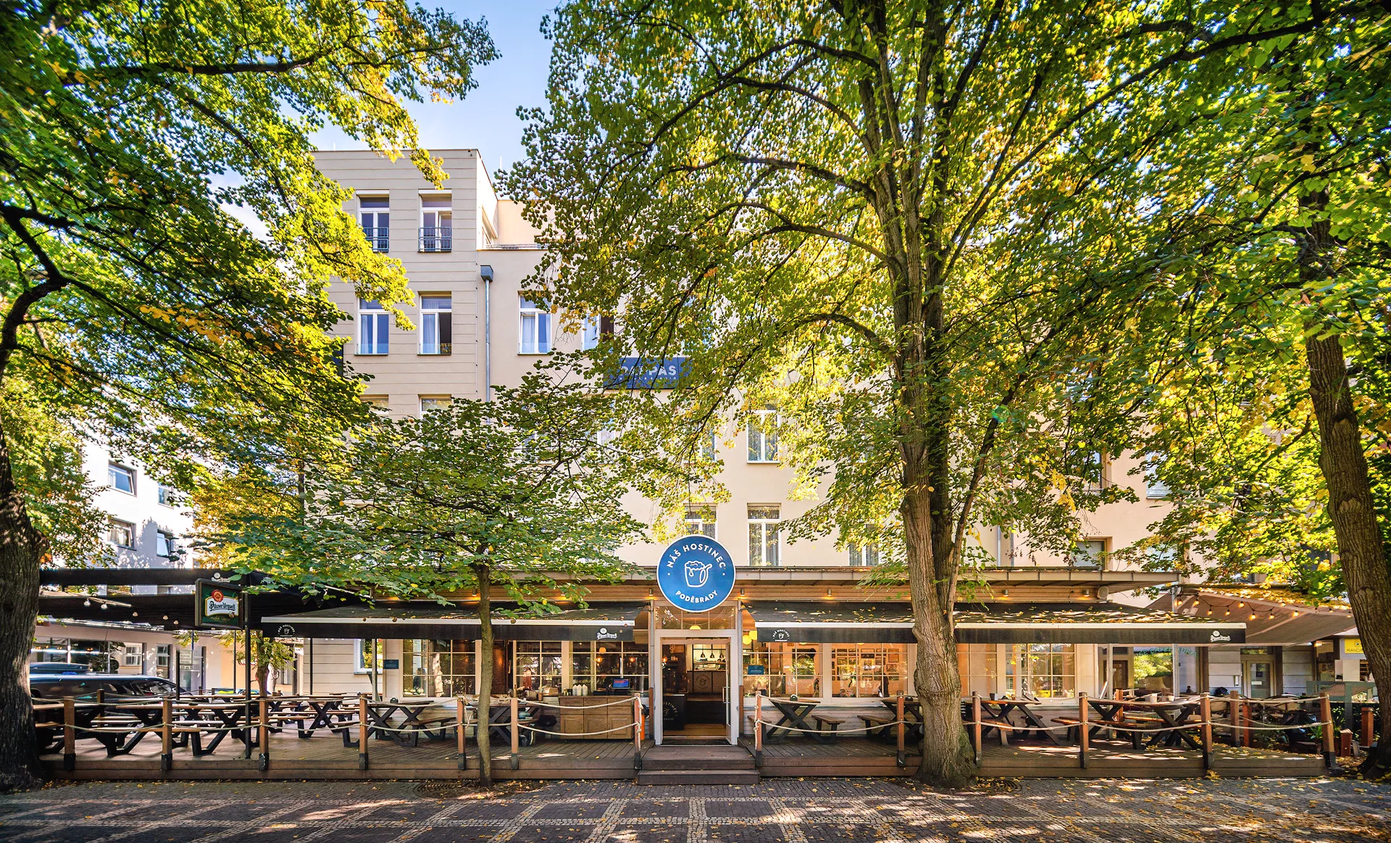
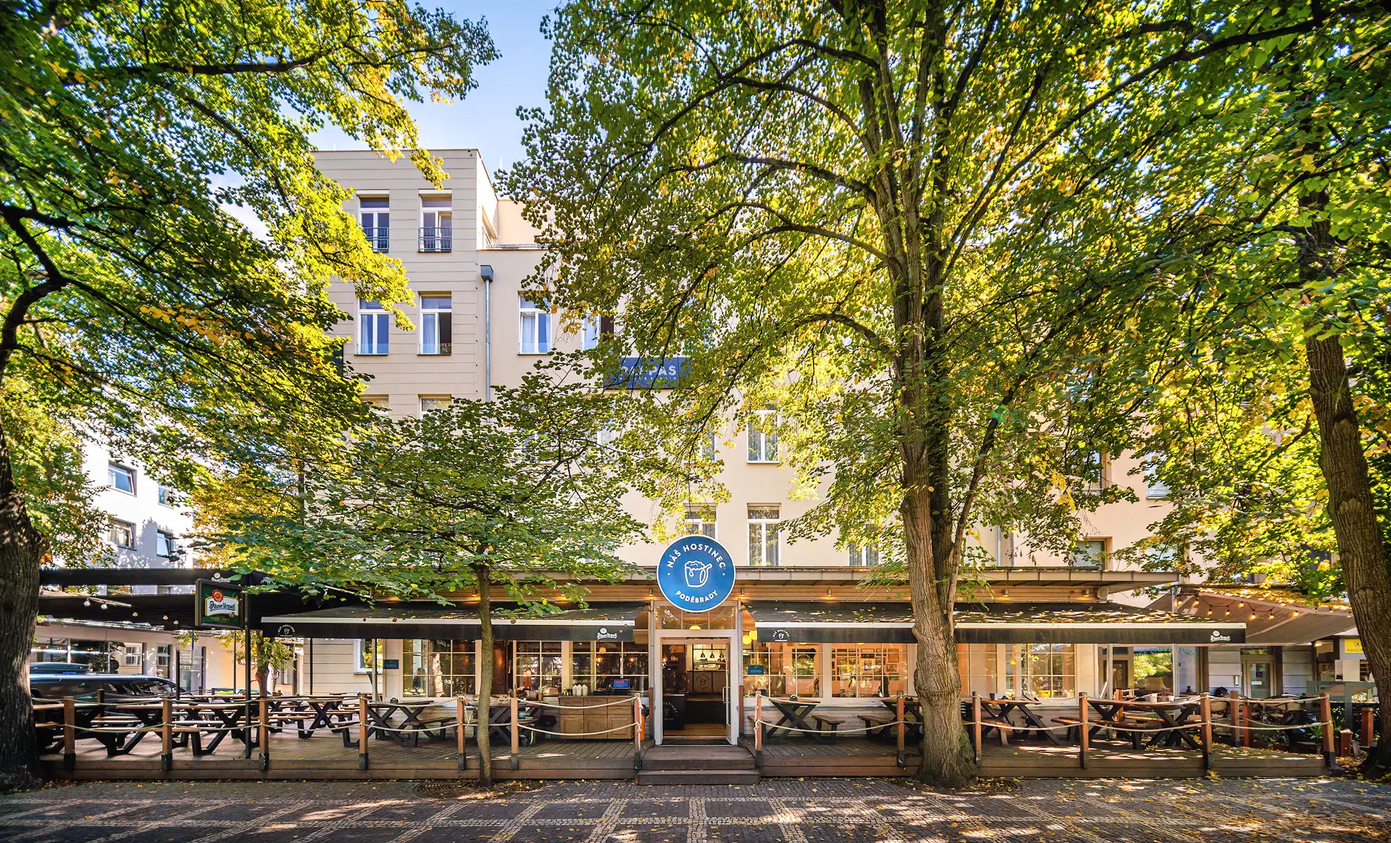
release 5

diff --git a/docs/styles/style.min.css b/docs/styles/style.min.css
@@ -1,1 +1,1 @@
-@import"https://fonts.googleapis.com/css2?family=Inter+Tight:ital,wght@0,100..900;1,100..900&display=swap";@import"https://cdn.jsdelivr.net/npm/bootstrap-icons@1.11.3/font/bootstrap-icons.min.css";body{background-color:#e8e8e8 !important}body .image,body .thumbnail{position:relative;width:100%;padding-top:66.6666666%}body .image img,body .thumbnail img{position:absolute;top:0;left:0;width:100%;height:100%;object-fit:cover}body .image:after,body .thumbnail:after{content:"";position:absolute;top:10px;left:10px;width:100px;height:100px;background-image:url("/media/logo/TR_logo_Asset 4.svg");background-size:contain;background-repeat:no-repeat;opacity:.4;pointer-events:none;z-index:10}body .navbar{background-color:#e8e8e8 !important}body .nav-item{text-align:center}body .content{margin:20px auto;max-width:80vw}body .section{padding-top:3rem}body .text,body a,body b,body i,body p,body h1,body h2,body h3,body h4,body h5,body h6,body label,body input,body ::placeholder{font-family:"Inter Tight",sans-serif;font-optical-sizing:auto;color:#4d4d4d}body .hr-blue{width:100%;display:block;margin-top:10px;margin-bottom:10px;height:5px;border-bottom:solid #0062a6 1px}body .text:not(:last-child){margin-bottom:1rem}body .text.no-bp{margin-bottom:0rem}body .fs66{font-size:2.64vw}body .fs36{font-size:1.44vw}body .fs20{font-size:.96vw}body .fs15{font-size:.6vw}body .fsp0{letter-spacing:0px}body input::placeholder,body textarea::placeholder{font-size:.8vw;font-style:italic;color:#0062a6}body .fw900{font-weight:900}body .fw600{font-weight:600}body .fw500{font-weight:500}body .fw400{font-weight:400}body .fw300{font-weight:300}body .fw200{font-weight:200}body .fw100{font-weight:100}body .blue{color:#0062a6}body .blue-bg{background-color:#0062a6}body .white{color:#e8e8e8}body .white-bg{background-color:#e8e8e8}body .black{color:#4d4d4d}body .flex{display:flex;width:100%}body .flex .align-top{justify-content:flex-start}body .flex .align-bottom{justify-content:flex-end}body .flex .drow{flex-direction:row}body .c100,body .c33,body .c40,body .c20,body .c60,body .c50,body .c25{overflow-wrap:break-word;display:flex;flex-direction:column;padding:20px;justify-content:left}body .c100{width:100%}body .c50{width:50%}body .c33{width:100%}body .c40{width:40%}body .c20{width:20%}body .c25{width:25%}body .c60{width:60%}body .c100{width:100%}body .jc-c{justify-content:center;text-align:center}body .jc-l{justify-content:start;text-align:left}body .jc-r{justify-content:end;text-align:right}body nav .container-fluid{padding-left:3%;padding-right:3%}body nav .logo{max-height:50px;height:50px}body .tab{display:flex;flex-direction:column;width:100%}body .tab .tab-row{display:flex;flex-direction:row;width:100%}body .tab .tab-row.narrow{display:flex;flex-direction:row !important;width:100%}body .tab .tab-row.narrow .c50{width:50%;padding:0px}body .tab .tab-row:first-child{margin-top:3rem}body .tab .tab-row:not(.borderless){padding:2rem 0px;border-top:solid #bababa 1px}body .tab .tab-row.borderless{padding:.1rem 0px}body .contact-form input:not(.form-check-input),body .contact-form textarea{width:100%;min-height:3rem;border-top:none;border-left:none;border-right:none;border-bottom:solid #0062a6 1px;border-radius:0px;line-height:1.5rem;background-color:rgba(0,0,0,0)}body .main-button{background-color:rgba(0,0,0,0);color:#0062a6;display:inline-block;padding:5px 20px;border:2px solid #0062a6;height:fit-content;border-radius:50px;text-align:center;text-decoration:none;cursor:pointer}body .main-button .bi{margin-left:.5rem;color:#0062a6}body .m0 a,body .m0 b,body .m0 p,body .m0 i{margin:0px}body .np{padding:0px}body .btn-container{padding-top:2rem;width:100%;display:flex;justify-content:end}body .btn-container.center{width:100%;display:flex;justify-content:center}body .project-grid{display:flex;flex-direction:row;flex-wrap:wrap;width:100%}body .project-grid .preview{position:relative;display:block;width:50%}body .project-grid .preview .image{overflow:hidden;position:relative;top:0%}body .project-grid .preview img{max-width:100%;aspect-ratio:6/4;object-fit:fill}body .project-grid .preview .label{width:100%;position:absolute;bottom:0;background-color:rgba(50,50,50,.5);padding:.5rem;display:flex;justify-items:start}body .project-grid .preview .label .year{color:#fff;padding-right:1rem}body .project-grid .preview .label .text{color:#fff}body a.inherit{text-decoration:none}body .avatar img{max-width:100%;border-radius:5px}body .image-rectangles{position:relative;display:inline-block;max-height:32vw;height:32vw;overflow:hidden}body .image-rectangles .r1,body .image-rectangles .r2,body .image-rectangles .r3,body .image-rectangles .r4{background-color:#e8e8e8;position:absolute}body .image-rectangles img{display:block;width:100%;height:auto;position:relative;bottom:25%}body .image-rectangles .r1{top:0;right:0;width:24vw;height:8vw}body .image-rectangles .r2{top:8vw;right:0;width:8vw;height:8vw}body .image-rectangles .r3{top:16vw;right:8vw;width:8vw;height:8vw}body .image-rectangles .r4{top:24vw;right:0;width:8vw;height:8vw}body .image-rectangles .headline{position:absolute;font-size:3.3vw;color:#fff;top:75%;left:0;right:0;transform:translateY(-50%);overflow:hidden;white-space:nowrap;padding:1rem 5vw}body .image-rectangles .headline::before{content:"";position:absolute;top:0;left:0;width:100%;height:100%;background-color:rgba(255,255,255,.1);transform:translateX(-100%);animation:slide-in 1s forwards}body .image-rectangles .headline .text{color:#fff;text-shadow:2px 2px 10px #000}@keyframes slide-in{from{transform:translateX(-100%)}to{transform:translateX(0)}}body .gallery{display:flex;flex-wrap:wrap;justify-content:center;justify-items:center}body .gallery a{width:50%}body .gallery .thumbnail{width:100%;position:relative;top:0;overflow:hidden}body .gallery .thumbnail img{aspect-ratio:6/4;object-fit:cover}body .gallery .header{padding-top:2rem;padding-bottom:2rem;width:100%;display:flex;justify-content:center;font-size:2.64vw;font-weight:600;color:#0062a6}body .gallery .thumbnail img{width:100%;height:100%;object-fit:cover}body #footbar{display:flex;flex-wrap:wrap;width:100%;flex-direction:row;align-content:center;align-items:center;margin-top:2rem;padding-top:2rem}body #footbar .evalytics{height:1rem}body #footbar .logo img{height:3rem}body .container-404{min-height:80vh;display:flex;flex-direction:column;justify-content:center;align-items:center}body .container-404 .logo{width:100%;display:block;text-align:center;padding:2rem}body .container-404 .logo img{max-width:200px;width:100%;height:auto}body .container-404 .msg{width:100%;text-align:center;font-size:2.64vw;font-weight:600;color:#0062a6}body .no-padding{padding:0px !important}@media screen and (max-width: 992px){body .content{margin:20px auto;max-width:95vw}body .fs66{font-size:6vw}body .fs36{font-size:4.05vw}body .fs20{font-size:3.3vw}body .fs15{font-size:3vw}body nav .container-fluid{padding-left:3%;padding-right:3%}body nav .logo{max-height:50px;height:50px}body .flex{display:block}body .c100,body .c60,body .c40,body .c33,body .c20,body .c50,body .c25{display:block;width:100%;padding:1rem 0px}body .tab{display:flex}body .tab .tab-row{padding:1rem 0px;flex-direction:column}body .tab .tab-row .c40,body .tab .tab-row .c60,body .tab .tab-row .c50,body .tab .tab-row .c25{width:100%}body .tab .tab-row .c40{padding:0px 0px 1rem 0rem}body .tab .tab-row .c60{padding:0px 0px 0px 0rem}body .flex .drow{flex-direction:column}body .project-grid .preview{width:100%}body .project-grid .preview .image{max-height:1000px;height:auto}body .c25.jc-r,body .c25.jc-l{text-align:center}body .nm{display:none}body .gallery a{width:100%}body input::placeholder,body textarea::placeholder{font-size:2.4vw;font-style:italic}body .nav-item:first-child{margin-top:2rem}body .navbar-collapse{border-bottom:solid 1px #bababa}body .avatar{text-align:center}body .avatar img{max-width:50%;justify-content:center}}
+@import"https://fonts.googleapis.com/css2?family=Inter+Tight:ital,wght@0,100..900;1,100..900&display=swap";@import"https://cdn.jsdelivr.net/npm/bootstrap-icons@1.11.3/font/bootstrap-icons.min.css";body{background-color:#e8e8e8 !important}body .image,body .thumbnail{position:relative;width:100%;padding-top:66.6666666%}body .image img,body .thumbnail img{position:absolute;top:0;left:0;width:100%;height:100%;object-fit:cover}body .image:after,body .thumbnail:after,body .lb-container:after{content:"";position:absolute;top:10px;left:10px;width:100px;height:100px;background-image:url("/media/logo/TR_logo_Asset 4.svg");background-size:contain;background-repeat:no-repeat;opacity:.7;pointer-events:none;z-index:10}body .navbar{background-color:#e8e8e8 !important}body .nav-item{text-align:center}body .content{margin:20px auto;max-width:80vw}body .section{padding-top:3rem}body .text,body a,body b,body i,body p,body h1,body h2,body h3,body h4,body h5,body h6,body label,body input,body ::placeholder{font-family:"Inter Tight",sans-serif;font-optical-sizing:auto;color:#4d4d4d}body .hr-blue{width:100%;display:block;margin-top:10px;margin-bottom:10px;height:5px;border-bottom:solid #0062a6 1px}body .text:not(:last-child){margin-bottom:1rem}body .text.no-bp{margin-bottom:0rem}body .fs66{font-size:2.64vw}body .fs36{font-size:1.44vw}body .fs20{font-size:.96vw}body .fs15{font-size:.6vw}body .fsp0{letter-spacing:0px}body input::placeholder,body textarea::placeholder{font-size:.8vw;font-style:italic;color:#0062a6}body .fw900{font-weight:900}body .fw600{font-weight:600}body .fw500{font-weight:500}body .fw400{font-weight:400}body .fw300{font-weight:300}body .fw200{font-weight:200}body .fw100{font-weight:100}body .blue{color:#0062a6}body .blue-bg{background-color:#0062a6}body .white{color:#e8e8e8}body .white-bg{background-color:#e8e8e8}body .black{color:#4d4d4d}body .flex{display:flex;width:100%}body .flex .align-top{justify-content:flex-start}body .flex .align-bottom{justify-content:flex-end}body .flex .drow{flex-direction:row}body .c100,body .c33,body .c40,body .c20,body .c60,body .c50,body .c25{overflow-wrap:break-word;display:flex;flex-direction:column;padding:20px;justify-content:left}body .c100{width:100%}body .c50{width:50%}body .c33{width:100%}body .c40{width:40%}body .c20{width:20%}body .c25{width:25%}body .c60{width:60%}body .c100{width:100%}body .jc-c{justify-content:center;text-align:center}body .jc-l{justify-content:start;text-align:left}body .jc-r{justify-content:end;text-align:right}body nav .container-fluid{padding-left:3%;padding-right:3%}body nav .logo{max-height:50px;height:50px}body .tab{display:flex;flex-direction:column;width:100%}body .tab .tab-row{display:flex;flex-direction:row;width:100%}body .tab .tab-row.narrow{display:flex;flex-direction:row !important;width:100%}body .tab .tab-row.narrow .c50{width:50%;padding:0px}body .tab .tab-row:first-child{margin-top:3rem}body .tab .tab-row:not(.borderless){padding:2rem 0px;border-top:solid #bababa 1px}body .tab .tab-row.borderless{padding:.1rem 0px}body .contact-form input:not(.form-check-input),body .contact-form textarea{width:100%;min-height:3rem;border-top:none;border-left:none;border-right:none;border-bottom:solid #0062a6 1px;border-radius:0px;line-height:1.5rem;background-color:rgba(0,0,0,0)}body .main-button{background-color:rgba(0,0,0,0);color:#0062a6;display:inline-block;padding:5px 20px;border:2px solid #0062a6;height:fit-content;border-radius:50px;text-align:center;text-decoration:none;cursor:pointer}body .main-button .bi{margin-left:.5rem;color:#0062a6}body .m0 a,body .m0 b,body .m0 p,body .m0 i{margin:0px}body .np{padding:0px}body .btn-container{padding-top:2rem;width:100%;display:flex;justify-content:end}body .btn-container.center{width:100%;display:flex;justify-content:center}body .project-grid{display:flex;flex-direction:row;flex-wrap:wrap;width:100%}body .project-grid .preview{position:relative;display:block;width:50%}body .project-grid .preview .image{overflow:hidden;position:relative;top:0%}body .project-grid .preview img{max-width:100%;aspect-ratio:6/4;object-fit:fill}body .project-grid .preview .label{width:100%;position:absolute;bottom:0;background-color:rgba(50,50,50,.5);padding:.5rem;display:flex;justify-items:start}body .project-grid .preview .label .year{color:#fff;padding-right:1rem}body .project-grid .preview .label .text{color:#fff}body a.inherit{text-decoration:none}body .avatar img{max-width:100%;border-radius:5px}body .image-rectangles{position:relative;display:inline-block;max-height:32vw;height:32vw;overflow:hidden}body .image-rectangles .r1,body .image-rectangles .r2,body .image-rectangles .r3,body .image-rectangles .r4{background-color:#e8e8e8;position:absolute}body .image-rectangles img{display:block;width:100%;height:auto;position:relative;bottom:25%}body .image-rectangles .r1{top:0;right:0;width:24vw;height:8vw}body .image-rectangles .r2{top:8vw;right:0;width:8vw;height:8vw}body .image-rectangles .r3{top:16vw;right:8vw;width:8vw;height:8vw}body .image-rectangles .r4{top:24vw;right:0;width:8vw;height:8vw}body .image-rectangles .headline{position:absolute;font-size:3.3vw;color:#fff;top:75%;left:0;right:0;transform:translateY(-50%);overflow:hidden;white-space:nowrap;padding:1rem 5vw}body .image-rectangles .headline::before{content:"";position:absolute;top:0;left:0;width:100%;height:100%;background-color:rgba(255,255,255,.1);transform:translateX(-100%);animation:slide-in 1s forwards}body .image-rectangles .headline .text{color:#fff;text-shadow:2px 2px 10px #000}@keyframes slide-in{from{transform:translateX(-100%)}to{transform:translateX(0)}}body .gallery{display:flex;flex-wrap:wrap;justify-content:center;justify-items:center}body .gallery a{width:50%}body .gallery .thumbnail{width:100%;position:relative;top:0;overflow:hidden}body .gallery .thumbnail img{aspect-ratio:6/4;object-fit:cover}body .gallery .header{padding-top:2rem;padding-bottom:2rem;width:100%;display:flex;justify-content:center;font-size:2.64vw;font-weight:600;color:#0062a6}body .gallery .thumbnail img{width:100%;height:100%;object-fit:cover}body #footbar{display:flex;flex-wrap:wrap;width:100%;flex-direction:row;align-content:center;align-items:center;margin-top:2rem;padding-top:2rem}body #footbar .evalytics{height:1rem}body #footbar .logo img{height:3rem}body .container-404{min-height:80vh;display:flex;flex-direction:column;justify-content:center;align-items:center}body .container-404 .logo{width:100%;display:block;text-align:center;padding:2rem}body .container-404 .logo img{max-width:200px;width:100%;height:auto}body .container-404 .msg{width:100%;text-align:center;font-size:2.64vw;font-weight:600;color:#0062a6}body .no-padding{padding:0px !important}@media screen and (max-width: 992px){body .content{margin:20px auto;max-width:95vw}body .fs66{font-size:6vw}body .fs36{font-size:4.05vw}body .fs20{font-size:3.3vw}body .fs15{font-size:3vw}body nav .container-fluid{padding-left:3%;padding-right:3%}body nav .logo{max-height:50px;height:50px}body .flex{display:block}body .c100,body .c60,body .c40,body .c33,body .c20,body .c50,body .c25{display:block;width:100%;padding:1rem 0px}body .tab{display:flex}body .tab .tab-row{padding:1rem 0px;flex-direction:column}body .tab .tab-row .c40,body .tab .tab-row .c60,body .tab .tab-row .c50,body .tab .tab-row .c25{width:100%}body .tab .tab-row .c40{padding:0px 0px 1rem 0rem}body .tab .tab-row .c60{padding:0px 0px 0px 0rem}body .flex .drow{flex-direction:column}body .project-grid .preview{width:100%}body .project-grid .preview .image{max-height:1000px;height:auto}body .c25.jc-r,body .c25.jc-l{text-align:center}body .nm{display:none}body .gallery a{width:100%}body input::placeholder,body textarea::placeholder{font-size:2.4vw;font-style:italic}body .nav-item:first-child{margin-top:2rem}body .navbar-collapse{border-bottom:solid 1px #bababa}body .avatar{text-align:center}body .avatar img{max-width:50%;justify-content:center}}

diff --git a/docs/projekty/orfeus.html b/docs/projekty/orfeus.html
@@ -124,14 +124,14 @@
           </div>
         </div>
       </div>
-      <div class="gallery"><a href="/media/images/orfeus_002.webp" data-lightbox="galerie" data-alt="Multifunkční dům Orfeus (Náš Hostinec, hotel Papas) (po rekonstrukci)&lt;br&gt;Dřevěná veranda propojuje prostor restaurace s kolonádou" data-title="Multifunkční dům Orfeus (Náš Hostinec, hotel Papas) (po rekonstrukci)&lt;br&gt;Dřevěná veranda propojuje prostor restaurace s kolonádou">
-          <div class="thumbnail"><img src="/media/images/orfeus_002.webp" alt="Multifunkční dům Orfeus (Náš Hostinec, hotel Papas)"></div></a><a href="/media/images/orfeus_003.webp" data-lightbox="galerie" data-alt="Multifunkční dům Orfeus (Náš Hostinec, hotel Papas) (po rekonstrukci)&lt;br&gt;Veranda ve stylu polabských hostinců" data-title="Multifunkční dům Orfeus (Náš Hostinec, hotel Papas) (po rekonstrukci)&lt;br&gt;Veranda ve stylu polabských hostinců">
-          <div class="thumbnail"><img src="/media/images/orfeus_003.webp" alt="Multifunkční dům Orfeus (Náš Hostinec, hotel Papas)"></div></a><a href="/media/images/orfeus_004.webp" data-lightbox="galerie" data-alt="Multifunkční dům Orfeus (Náš Hostinec, hotel Papas) (po rekonstrukci)&lt;br&gt;Hotel Papas a restaurace Náš hostinec" data-title="Multifunkční dům Orfeus (Náš Hostinec, hotel Papas) (po rekonstrukci)&lt;br&gt;Hotel Papas a restaurace Náš hostinec">
-          <div class="thumbnail"><img src="/media/images/orfeus_004.webp" alt="Multifunkční dům Orfeus (Náš Hostinec, hotel Papas)"></div></a><a href="/media/images/orfeus_001.webp" data-lightbox="galerie" data-alt="Multifunkční dům Orfeus (Náš Hostinec, hotel Papas) (po rekonstrukci)" data-title="Multifunkční dům Orfeus (Náš Hostinec, hotel Papas) (po rekonstrukci)">
-          <div class="thumbnail"><img src="/media/images/orfeus_001.webp" alt="Multifunkční dům Orfeus (Náš Hostinec, hotel Papas)"></div></a><a href="/media/images/orfeus_008.webp" data-lightbox="galerie" data-alt="Multifunkční dům Orfeus (Náš Hostinec, hotel Papas) (po rekonstrukci)&lt;br&gt;Interiér restaurace Náš hostinec" data-title="Multifunkční dům Orfeus (Náš Hostinec, hotel Papas) (po rekonstrukci)&lt;br&gt;Interiér restaurace Náš hostinec">
-          <div class="thumbnail"><img src="/media/images/orfeus_008.webp" alt="Multifunkční dům Orfeus (Náš Hostinec, hotel Papas)"></div></a><a href="/media/images/orfeus_009.webp" data-lightbox="galerie" data-alt="Multifunkční dům Orfeus (Náš Hostinec, hotel Papas) (po rekonstrukci)&lt;br&gt;Hotel Papas a restaurace Náš hostinec" data-title="Multifunkční dům Orfeus (Náš Hostinec, hotel Papas) (po rekonstrukci)&lt;br&gt;Hotel Papas a restaurace Náš hostinec">
-          <div class="thumbnail"><img src="/media/images/orfeus_009.webp" alt="Multifunkční dům Orfeus (Náš Hostinec, hotel Papas)"></div></a><a href="/media/images/orfeus_006.webp" data-lightbox="galerie" data-alt="Multifunkční dům Orfeus (Náš Hostinec, hotel Papas) (před rekonstrukcí)&lt;br&gt;Čelní pohled" data-title="Multifunkční dům Orfeus (Náš Hostinec, hotel Papas) (před rekonstrukcí)&lt;br&gt;Čelní pohled">
-          <div class="thumbnail"><img src="/media/images/orfeus_006.webp" alt="Multifunkční dům Orfeus (Náš Hostinec, hotel Papas)"></div></a><a href="/media/images/orfeus_007.webp" data-lightbox="galerie" data-alt="Multifunkční dům Orfeus (Náš Hostinec, hotel Papas) (před rekonstrukcí)&lt;br&gt;Boční pohled" data-title="Multifunkční dům Orfeus (Náš Hostinec, hotel Papas) (před rekonstrukcí)&lt;br&gt;Boční pohled">
+      <div class="gallery"><a href="/media/images/orfeus_002.webp" data-lightbox="galerie" data-alt="Multifunkční dům Orfeus (Náš Hostinec, hotel Papas)" data-title="Multifunkční dům Orfeus (Náš Hostinec, hotel Papas)">
+          <div class="thumbnail"><img src="/media/images/orfeus_002.webp" alt="Multifunkční dům Orfeus (Náš Hostinec, hotel Papas)"></div></a><a href="/media/images/orfeus_003.webp" data-lightbox="galerie" data-alt="Multifunkční dům Orfeus (Náš Hostinec, hotel Papas)" data-title="Multifunkční dům Orfeus (Náš Hostinec, hotel Papas)">
+          <div class="thumbnail"><img src="/media/images/orfeus_003.webp" alt="Multifunkční dům Orfeus (Náš Hostinec, hotel Papas)"></div></a><a href="/media/images/orfeus_004.webp" data-lightbox="galerie" data-alt="Multifunkční dům Orfeus (Náš Hostinec, hotel Papas)" data-title="Multifunkční dům Orfeus (Náš Hostinec, hotel Papas)">
+          <div class="thumbnail"><img src="/media/images/orfeus_004.webp" alt="Multifunkční dům Orfeus (Náš Hostinec, hotel Papas)"></div></a><a href="/media/images/orfeus_001.webp" data-lightbox="galerie" data-alt="Multifunkční dům Orfeus (Náš Hostinec, hotel Papas)" data-title="Multifunkční dům Orfeus (Náš Hostinec, hotel Papas)">
+          <div class="thumbnail"><img src="/media/images/orfeus_001.webp" alt="Multifunkční dům Orfeus (Náš Hostinec, hotel Papas)"></div></a><a href="/media/images/orfeus_008.webp" data-lightbox="galerie" data-alt="Multifunkční dům Orfeus (Náš Hostinec, hotel Papas)" data-title="Multifunkční dům Orfeus (Náš Hostinec, hotel Papas)">
+          <div class="thumbnail"><img src="/media/images/orfeus_008.webp" alt="Multifunkční dům Orfeus (Náš Hostinec, hotel Papas)"></div></a><a href="/media/images/orfeus_009.webp" data-lightbox="galerie" data-alt="Multifunkční dům Orfeus (Náš Hostinec, hotel Papas)" data-title="Multifunkční dům Orfeus (Náš Hostinec, hotel Papas)">
+          <div class="thumbnail"><img src="/media/images/orfeus_009.webp" alt="Multifunkční dům Orfeus (Náš Hostinec, hotel Papas)"></div></a><a href="/media/images/orfeus_006.webp" data-lightbox="galerie" data-alt="Multifunkční dům Orfeus (Náš Hostinec, hotel Papas) - před rekonstrukcí" data-title="Multifunkční dům Orfeus (Náš Hostinec, hotel Papas) - před rekonstrukcí">
+          <div class="thumbnail"><img src="/media/images/orfeus_006.webp" alt="Multifunkční dům Orfeus (Náš Hostinec, hotel Papas)"></div></a><a href="/media/images/orfeus_007.webp" data-lightbox="galerie" data-alt="Multifunkční dům Orfeus (Náš Hostinec, hotel Papas) - před rekonstrukcí" data-title="Multifunkční dům Orfeus (Náš Hostinec, hotel Papas) - před rekonstrukcí">
           <div class="thumbnail"><img src="/media/images/orfeus_007.webp" alt="Multifunkční dům Orfeus (Náš Hostinec, hotel Papas)"></div></a>
       </div><br><br>
       <div class="btn-container"><a class="main-button fs20" href="/projekty"> <i class="bi bi-arrow-left" style="margin-right: 1rem;"></i>ostatní projekty</a></div>

diff --git a/docs/projekty/ukolbabu.html b/docs/projekty/ukolbabu.html
@@ -124,12 +124,12 @@
           </div>
         </div>
       </div>
-      <div class="gallery"><a href="/media/images/ukolbabu_003.webp" data-lightbox="galerie" data-alt="Dům U Kolbabů (Cucina, Mamma's Boutique hotel) (po rekonstrukci)&lt;br&gt;Celkový pohled na dům" data-title="Dům U Kolbabů (Cucina, Mamma's Boutique hotel) (po rekonstrukci)&lt;br&gt;Celkový pohled na dům">
-          <div class="thumbnail"><img src="/media/images/ukolbabu_003.webp" alt="Dům U Kolbabů (Cucina, Mamma's Boutique hotel)"></div></a><a href="/media/images/ukolbabu_004.webp" data-lightbox="galerie" data-alt="Dům U Kolbabů (Cucina, Mamma's Boutique hotel) (po rekonstrukci)&lt;br&gt;Původní okna po rekonstrukci" data-title="Dům U Kolbabů (Cucina, Mamma's Boutique hotel) (po rekonstrukci)&lt;br&gt;Původní okna po rekonstrukci">
-          <div class="thumbnail"><img src="/media/images/ukolbabu_004.webp" alt="Dům U Kolbabů (Cucina, Mamma's Boutique hotel)"></div></a><a href="/media/images/ukolbabu_007.webp" data-lightbox="galerie" data-alt="Dům U Kolbabů (Cucina, Mamma's Boutique hotel) (po rekonstrukci)&lt;br&gt;Interiér restaurace Cucina" data-title="Dům U Kolbabů (Cucina, Mamma's Boutique hotel) (po rekonstrukci)&lt;br&gt;Interiér restaurace Cucina">
-          <div class="thumbnail"><img src="/media/images/ukolbabu_007.webp" alt="Dům U Kolbabů (Cucina, Mamma's Boutique hotel)"></div></a><a href="/media/images/ukolbabu_006.webp" data-lightbox="galerie" data-alt="Dům U Kolbabů (Cucina, Mamma's Boutique hotel) (po rekonstrukci)&lt;br&gt;Mamma's Boutique Hotel a restaurace Cucina" data-title="Dům U Kolbabů (Cucina, Mamma's Boutique hotel) (po rekonstrukci)&lt;br&gt;Mamma's Boutique Hotel a restaurace Cucina">
-          <div class="thumbnail"><img src="/media/images/ukolbabu_006.webp" alt="Dům U Kolbabů (Cucina, Mamma's Boutique hotel)"></div></a><a href="/media/images/ukolbabu_005.webp" data-lightbox="galerie" data-alt="Dům U Kolbabů (Cucina, Mamma's Boutique hotel) (po rekonstrukci)&lt;br&gt;Mamma's Boutique Hotel a restaurace Cucina" data-title="Dům U Kolbabů (Cucina, Mamma's Boutique hotel) (po rekonstrukci)&lt;br&gt;Mamma's Boutique Hotel a restaurace Cucina">
-          <div class="thumbnail"><img src="/media/images/ukolbabu_005.webp" alt="Dům U Kolbabů (Cucina, Mamma's Boutique hotel)"></div></a><a href="/media/images/ukolbabu_002.webp" data-lightbox="galerie" data-alt="Dům U Kolbabů (Cucina, Mamma's Boutique hotel) (před rekonstrukcí)&lt;br&gt;Čelní pohled na dům" data-title="Dům U Kolbabů (Cucina, Mamma's Boutique hotel) (před rekonstrukcí)&lt;br&gt;Čelní pohled na dům">
+      <div class="gallery"><a href="/media/images/ukolbabu_003.webp" data-lightbox="galerie" data-alt="Dům U Kolbabů (Cucina, Mamma's Boutique hotel)" data-title="Dům U Kolbabů (Cucina, Mamma's Boutique hotel)">
+          <div class="thumbnail"><img src="/media/images/ukolbabu_003.webp" alt="Dům U Kolbabů (Cucina, Mamma's Boutique hotel)"></div></a><a href="/media/images/ukolbabu_004.webp" data-lightbox="galerie" data-alt="Dům U Kolbabů (Cucina, Mamma's Boutique hotel)" data-title="Dům U Kolbabů (Cucina, Mamma's Boutique hotel)">
+          <div class="thumbnail"><img src="/media/images/ukolbabu_004.webp" alt="Dům U Kolbabů (Cucina, Mamma's Boutique hotel)"></div></a><a href="/media/images/ukolbabu_007.webp" data-lightbox="galerie" data-alt="Dům U Kolbabů (Cucina, Mamma's Boutique hotel)" data-title="Dům U Kolbabů (Cucina, Mamma's Boutique hotel)">
+          <div class="thumbnail"><img src="/media/images/ukolbabu_007.webp" alt="Dům U Kolbabů (Cucina, Mamma's Boutique hotel)"></div></a><a href="/media/images/ukolbabu_006.webp" data-lightbox="galerie" data-alt="Dům U Kolbabů (Cucina, Mamma's Boutique hotel)" data-title="Dům U Kolbabů (Cucina, Mamma's Boutique hotel)">
+          <div class="thumbnail"><img src="/media/images/ukolbabu_006.webp" alt="Dům U Kolbabů (Cucina, Mamma's Boutique hotel)"></div></a><a href="/media/images/ukolbabu_005.webp" data-lightbox="galerie" data-alt="Dům U Kolbabů (Cucina, Mamma's Boutique hotel)" data-title="Dům U Kolbabů (Cucina, Mamma's Boutique hotel)">
+          <div class="thumbnail"><img src="/media/images/ukolbabu_005.webp" alt="Dům U Kolbabů (Cucina, Mamma's Boutique hotel)"></div></a><a href="/media/images/ukolbabu_002.webp" data-lightbox="galerie" data-alt="Dům U Kolbabů (Cucina, Mamma's Boutique hotel) - před rekonstrukcí" data-title="Dům U Kolbabů (Cucina, Mamma's Boutique hotel) - před rekonstrukcí">
           <div class="thumbnail"><img src="/media/images/ukolbabu_002.webp" alt="Dům U Kolbabů (Cucina, Mamma's Boutique hotel)"></div></a>
       </div><br><br>
       <div class="btn-container"><a class="main-button fs20" href="/projekty"> <i class="bi bi-arrow-left" style="margin-right: 1rem;"></i>ostatní projekty</a></div>

diff --git a/docs/projekty/uvanu.html b/docs/projekty/uvanu.html
@@ -124,11 +124,11 @@
           </div>
         </div>
       </div>
-      <div class="gallery"><a href="/media/images/uvanu_001.webp" data-lightbox="galerie" data-alt="Bar U Váňů (po rekonstrukci)&lt;br&gt;Interiér" data-title="Bar U Váňů (po rekonstrukci)&lt;br&gt;Interiér">
-          <div class="thumbnail"><img src="/media/images/uvanu_001.webp" alt="Bar U Váňů"></div></a><a href="/media/images/uvanu_002.webp" data-lightbox="galerie" data-alt="Bar U Váňů (po rekonstrukci)&lt;br&gt;Interiér" data-title="Bar U Váňů (po rekonstrukci)&lt;br&gt;Interiér">
-          <div class="thumbnail"><img src="/media/images/uvanu_002.webp" alt="Bar U Váňů"></div></a><a href="/media/images/uvanu_003.webp" data-lightbox="galerie" data-alt="Bar U Váňů (po rekonstrukci)&lt;br&gt;Exteriér" data-title="Bar U Váňů (po rekonstrukci)&lt;br&gt;Exteriér">
-          <div class="thumbnail"><img src="/media/images/uvanu_003.webp" alt="Bar U Váňů"></div></a><a href="/media/images/uvanu_005.webp" data-lightbox="galerie" data-alt="Bar U Váňů (po rekonstrukci)&lt;br&gt;Exteriér" data-title="Bar U Váňů (po rekonstrukci)&lt;br&gt;Exteriér">
-          <div class="thumbnail"><img src="/media/images/uvanu_005.webp" alt="Bar U Váňů"></div></a><a href="/media/images/uvanu_004.webp" data-lightbox="galerie" data-alt="Bar U Váňů (před rekonstrukcí)&lt;br&gt;Interiér původního rekonstruovaného schodiště." data-title="Bar U Váňů (před rekonstrukcí)&lt;br&gt;Interiér původního rekonstruovaného schodiště.">
+      <div class="gallery"><a href="/media/images/uvanu_001.webp" data-lightbox="galerie" data-alt="Bar U Váňů" data-title="Bar U Váňů">
+          <div class="thumbnail"><img src="/media/images/uvanu_001.webp" alt="Bar U Váňů"></div></a><a href="/media/images/uvanu_002.webp" data-lightbox="galerie" data-alt="Bar U Váňů" data-title="Bar U Váňů">
+          <div class="thumbnail"><img src="/media/images/uvanu_002.webp" alt="Bar U Váňů"></div></a><a href="/media/images/uvanu_003.webp" data-lightbox="galerie" data-alt="Bar U Váňů" data-title="Bar U Váňů">
+          <div class="thumbnail"><img src="/media/images/uvanu_003.webp" alt="Bar U Váňů"></div></a><a href="/media/images/uvanu_005.webp" data-lightbox="galerie" data-alt="Bar U Váňů" data-title="Bar U Váňů">
+          <div class="thumbnail"><img src="/media/images/uvanu_005.webp" alt="Bar U Váňů"></div></a><a href="/media/images/uvanu_004.webp" data-lightbox="galerie" data-alt="Bar U Váňů - před rekonstrukcí" data-title="Bar U Váňů - před rekonstrukcí">
           <div class="thumbnail"><img src="/media/images/uvanu_004.webp" alt="Bar U Váňů"></div></a>
       </div><br><br>
       <div class="btn-container"><a class="main-button fs20" href="/projekty"> <i class="bi bi-arrow-left" style="margin-right: 1rem;"></i>ostatní projekty</a></div>

diff --git a/docs/projekty/dum17.html b/docs/projekty/dum17.html
@@ -124,10 +124,10 @@
           </div>
         </div>
       </div>
-      <div class="gallery"><a href="/media/images/dum17_003.webp" data-lightbox="galerie" data-alt="Dům č. p. 17, Jiřího náměstí (po rekonstrukci)&lt;br&gt;Boční pohled" data-title="Dům č. p. 17, Jiřího náměstí (po rekonstrukci)&lt;br&gt;Boční pohled">
-          <div class="thumbnail"><img src="/media/images/dum17_003.webp" alt="Dům č. p. 17, Jiřího náměstí"></div></a><a href="/media/images/dum17_004.webp" data-lightbox="galerie" data-alt="Dům č. p. 17, Jiřího náměstí (po rekonstrukci)&lt;br&gt;Čelní pohled" data-title="Dům č. p. 17, Jiřího náměstí (po rekonstrukci)&lt;br&gt;Čelní pohled">
-          <div class="thumbnail"><img src="/media/images/dum17_004.webp" alt="Dům č. p. 17, Jiřího náměstí"></div></a><a href="/media/images/dum17_005.webp" data-lightbox="galerie" data-alt="Dům č. p. 17, Jiřího náměstí (po rekonstrukci)&lt;br&gt;Rodný dům matky Franze Kafky" data-title="Dům č. p. 17, Jiřího náměstí (po rekonstrukci)&lt;br&gt;Rodný dům matky Franze Kafky">
-          <div class="thumbnail"><img src="/media/images/dum17_005.webp" alt="Dům č. p. 17, Jiřího náměstí"></div></a><a href="/media/images/dum17_002.webp" data-lightbox="galerie" data-alt="Dům č. p. 17, Jiřího náměstí (před rekonstrukcí)&lt;br&gt;Boční pohled" data-title="Dům č. p. 17, Jiřího náměstí (před rekonstrukcí)&lt;br&gt;Boční pohled">
+      <div class="gallery"><a href="/media/images/dum17_003.webp" data-lightbox="galerie" data-alt="Dům č. p. 17, Jiřího náměstí" data-title="Dům č. p. 17, Jiřího náměstí">
+          <div class="thumbnail"><img src="/media/images/dum17_003.webp" alt="Dům č. p. 17, Jiřího náměstí"></div></a><a href="/media/images/dum17_004.webp" data-lightbox="galerie" data-alt="Dům č. p. 17, Jiřího náměstí" data-title="Dům č. p. 17, Jiřího náměstí">
+          <div class="thumbnail"><img src="/media/images/dum17_004.webp" alt="Dům č. p. 17, Jiřího náměstí"></div></a><a href="/media/images/dum17_005.webp" data-lightbox="galerie" data-alt="Dům č. p. 17, Jiřího náměstí" data-title="Dům č. p. 17, Jiřího náměstí">
+          <div class="thumbnail"><img src="/media/images/dum17_005.webp" alt="Dům č. p. 17, Jiřího náměstí"></div></a><a href="/media/images/dum17_002.webp" data-lightbox="galerie" data-alt="Dům č. p. 17, Jiřího náměstí - před rekonstrukcí" data-title="Dům č. p. 17, Jiřího náměstí - před rekonstrukcí">
           <div class="thumbnail"><img src="/media/images/dum17_002.webp" alt="Dům č. p. 17, Jiřího náměstí"></div></a>
       </div><br><br>
       <div class="btn-container"><a class="main-button fs20" href="/projekty"> <i class="bi bi-arrow-left" style="margin-right: 1rem;"></i>ostatní projekty</a></div>

diff --git a/docs/projekty/meetnice.html b/docs/projekty/meetnice.html
@@ -118,8 +118,8 @@
           </div>
         </div>
       </div>
-      <div class="gallery"><a href="/media/images/meetnice_001.webp" data-lightbox="galerie" data-alt="Restaurace Meetnice (po rekonstrukci)" data-title="Restaurace Meetnice (po rekonstrukci)">
-          <div class="thumbnail"><img src="/media/images/meetnice_001.webp" alt="Restaurace Meetnice"></div></a><a href="/media/images/meetnice_002.webp" data-lightbox="galerie" data-alt="Restaurace Meetnice (po rekonstrukci)&lt;br&gt;Pohled z mostu" data-title="Restaurace Meetnice (po rekonstrukci)&lt;br&gt;Pohled z mostu">
+      <div class="gallery"><a href="/media/images/meetnice_001.webp" data-lightbox="galerie" data-alt="Restaurace Meetnice" data-title="Restaurace Meetnice">
+          <div class="thumbnail"><img src="/media/images/meetnice_001.webp" alt="Restaurace Meetnice"></div></a><a href="/media/images/meetnice_002.webp" data-lightbox="galerie" data-alt="Restaurace Meetnice" data-title="Restaurace Meetnice">
           <div class="thumbnail"><img src="/media/images/meetnice_002.webp" alt="Restaurace Meetnice"></div></a>
       </div><br><br>
       <div class="btn-container"><a class="main-button fs20" href="/projekty"> <i class="bi bi-arrow-left" style="margin-right: 1rem;"></i>ostatní projekty</a></div>

diff --git a/docs/styles/style.css b/docs/styles/style.css
@@ -2,6 +2,7 @@
 @import url("https://fonts.googleapis.com/css2?family=Inter+Tight:ital,wght@0,100..900;1,100..900&display=swap");
 @import url("https://cdn.jsdelivr.net/npm/bootstrap-icons@1.11.3/font/bootstrap-icons.min.css");
 body {
+  /* watermark */
   background-color: rgb(232, 232, 232) !important;
   /* image rectangles */
   /* Animace pro pozadí */
@@ -19,8 +20,8 @@ body .image img, body .thumbnail img {
   height: 100%;
   object-fit: cover; /* nebo contain, podle potřeby */
 }
-body .image:after, body .thumbnail:after {
-  content: ""; /* Prázdný obsah pro SVG */
+body .image:after, body .thumbnail:after, body .lb-container:after {
+  content: "";
   position: absolute;
   top: 10px;
   left: 10px;
@@ -29,7 +30,7 @@ body .image:after, body .thumbnail:after {
   background-image: url("/media/logo/TR_logo_Asset 4.svg");
   background-size: contain;
   background-repeat: no-repeat;
-  opacity: 0.4;
+  opacity: 0.7;
   pointer-events: none;
   z-index: 10;
 }

diff --git a/lab/styles/style.scss b/lab/styles/style.scss
@@ -28,8 +28,9 @@ body {
             object-fit: cover; /* nebo contain, podle potřeby */
         }
     }
-    .image:after, .thumbnail:after {
-        content: ''; /* Prázdný obsah pro SVG */
+    /* watermark */
+    .image:after, .thumbnail:after, .lb-container:after  {
+        content: '';
         position: absolute;
         top: 10px;
         left: 10px;
@@ -38,7 +39,7 @@ body {
         background-image: url('/media/logo/TR_logo_Asset 4.svg');
         background-size: contain;
         background-repeat: no-repeat;
-        opacity: 0.4;
+        opacity: 0.7;
         pointer-events: none;
         z-index: 10;
     }
